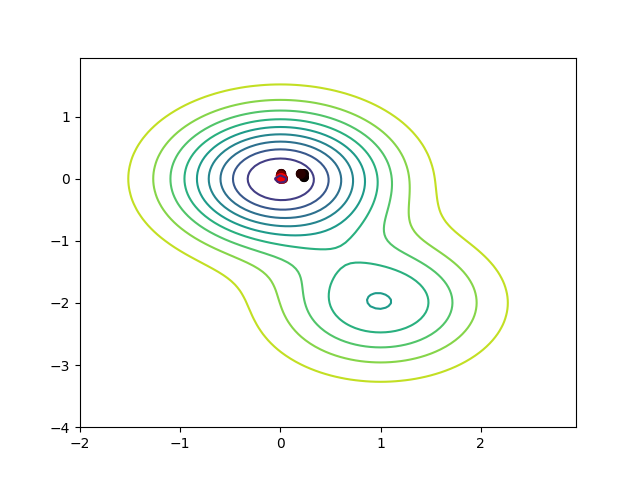
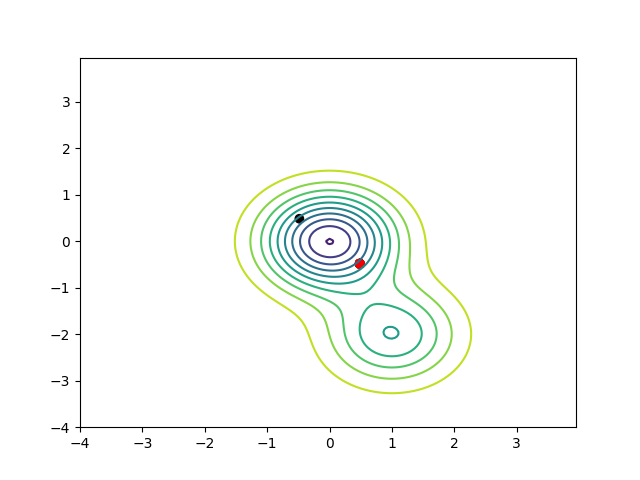
Changed GA

diff --git a/genetic_algorithm.py b/genetic_algorithm.py
@@ -24,7 +24,7 @@ class Chromosome:
     array_to_decode = self.array[lower_bound : upper_bound]
     str_bin = "".join(str(bite) for bite in array_to_decode)
     val = int(str_bin, 2)       # change string binary to int decimal
-    max_val = 2**(self.length) - 1
+    max_val = 2**(upper_bound - lower_bound) - 1
     norm = min_max_norm(val, 0, max_val, aoi[0], aoi[1])
     return norm
 
@@ -47,28 +47,29 @@ class Chromosome:
     Point of split after which there is split
     point_of_split:
     0 - switch arrays
-    1-7 - before this index is slice point
+    1-n - before this index is slice point
     """
     point_of_split = self.get_random_index(self.length)
     arr_child1 = np.append(self.array[:point_of_split], other.array[point_of_split:])
     arr_child2 = np.append(other.array[:point_of_split], self.array[point_of_split:])
 
     # create new children + mutate them
-    child1 = Chromosome(self.length, arr_child1)
-    child1.mutation(prop_of_mutation)
+    return [Chromosome(self.length, child_mut) for child_mut in [arr_child1, arr_child2]]
+    # child1 = Chromosome(self.length, arr_child1)
+    # child1.mutation(prop_of_mutation)
 
-    child2 = Chromosome(self.length, arr_child2)
-    child2.mutation(prop_of_mutation)
-    # print(point_of_split)
-    return (child1, child2)
+    # child2 = Chromosome(self.length, arr_child2)
+    # child2.mutation(prop_of_mutation)
+    # # print(point_of_split)
+    # return (child1, child2)
 
 
 
 """ GENETIC ALGORITHM """
 
 class GeneticAlgorithm:
-  def __init__(self, chromosome_length: int, obj_func_num_args: int, objective_function, aoi, population_size=20,
-               tournament_size=2, mutation_probability=0.05, crossover_probability=0.8, num_steps=4):
+  def __init__(self, chromosome_length: int, obj_func_num_args: int, objective_function, aoi, population_size=1000,
+               tournament_size=2, mutation_probability=0.05, crossover_probability=0.8, num_steps=20, plot=True):
     assert chromosome_length % obj_func_num_args == 0, "Number of bits for each argument should be equal"
     self.chromosome_lengths = chromosome_length
     self.obj_func_num_args = obj_func_num_args
@@ -80,13 +81,13 @@ class GeneticAlgorithm:
     self.crossover_probability = crossover_probability
     self.num_steps = num_steps
     self.population_size = population_size
+    self.plot = plot
 
   def eval_objective_func(self, chromosome: Chromosome) -> float:
     """Get arguments by decoding and return objective function value"""
     args = self.decode_chrom(chromosome)
     obj_func_val = self.objective_function(*args)
-    return obj_func_val  # unneccessary round
-
+    return obj_func_val
 
   def decode_chrom(self, chromosome: Chromosome):
     """Returns list of arguments by decoding array"""
@@ -101,7 +102,6 @@ class GeneticAlgorithm:
 
   def tournament_selection(self, population: np.array):
     new_pop = np.empty(shape=(self.population_size, 2), dtype=list)
-
     for index in range(self.population_size):
       contestants = np.array([random.choice(population) for _ in range(self.tournament_size)])
       survivor = min(contestants, key = lambda cand: cand[1])
@@ -111,18 +111,13 @@ class GeneticAlgorithm:
   def run(self):
     chrom_length = self.chromosome_lengths
     trace_of_best = []
-
+    all_values = []
     population1 = np.array([[Chromosome(chrom_length), 0] for _ in range(self.population_size)])
-    # population = np.empty(shape=(self.population_size, 2), dtype=list)
-    # for index in range(self.population_size):
-    #     population[index][0] = Chromosome(chrom_length)
-    # return population
-
     # evaluate all
     self.evaluate_all(population1)
     # save current best value
     current_best_value = self.find_best_individual(population1, trace_of_best)
-
+    all_values.append(current_best_value)
     for _ in range(self.num_steps):
       # create new population after tournament
       new_pop = self.tournament_selection(population1)
@@ -137,13 +132,13 @@ class GeneticAlgorithm:
 
       self.evaluate_all(population1)
       population_best_value = self.find_best_individual(population1, trace_of_best)
-
+      all_values.append(population_best_value)
       if population_best_value <= current_best_value:
         current_best_value = population_best_value
+    if self.plot:
+      self.plot_func(trace_of_best)
 
-    self.plot_func(trace_of_best)
-
-    return current_best_value
+    return sorted(all_values)
 
   def evaluate_all(self, population):
     """Update individuals value"""
@@ -158,8 +153,8 @@ class GeneticAlgorithm:
     return best_ind_of_pop[1]
 
   def plot_func(self, trace):
-    X = np.arange(-2, 3, 0.05)
-    Y = np.arange(-4, 2, 0.05)
+    X = np.arange(-4, 4, 0.05)
+    Y = np.arange(-4, 4, 0.05)
     X, Y = np.meshgrid(X, Y)
     Z = 1.5 - np.exp(-X ** (2) - Y ** (2)) - 0.5 * np.exp(-(X - 1) ** (2) - (Y + 2) ** (2))
     plt.figure()
@@ -180,30 +175,10 @@ def objective_function_f(*args):
 
 
 if __name__ == "__main__":
-  ch_length = 8
+  ch_length = 10
   n_arg = 2
-  # aoi = [0,1]
 
-  chrm1 = Chromosome(ch_length)
-  # print(chrm1.array)
-
-  # chrm2 = Chromosome(ch_length)
-  # print(chrm2.array)
-
-  # child1, child2 = chrm1.crossover(chrm2, 0)
-  # print(child1.array)
-  # print(child2.array)
-  # print(chrm1.decode(0, 8, aoi))
-
-  ga = GeneticAlgorithm(ch_length, n_arg, objective_function_f, [0,100])
+  ga = GeneticAlgorithm(ch_length, n_arg, objective_function_f, [-15, 15])
 
   # # print(ga.eval_objective_func(chrm1))
   print(ga.run())
-
-  # arr = np.array([['a', 1],
-  #                 ['b', 8],
-  #                 ['c', 3]])
-  # val = arr[:, 1].max()
-  # print(val)
-  # print(ga.eval_objective_func(chrm1))
-  # print(ga.decode_chrom(chrm1))
